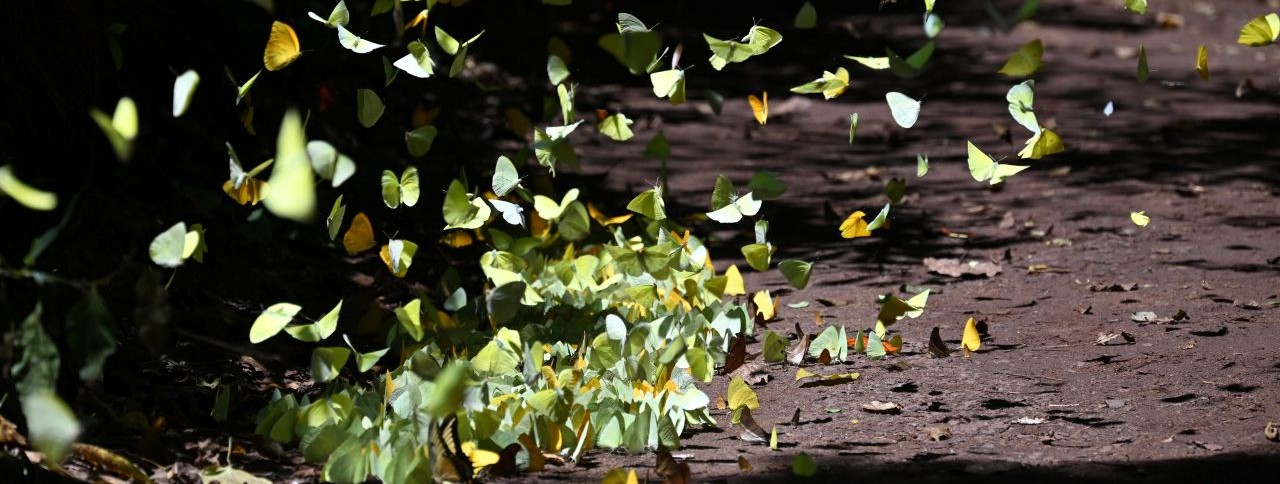
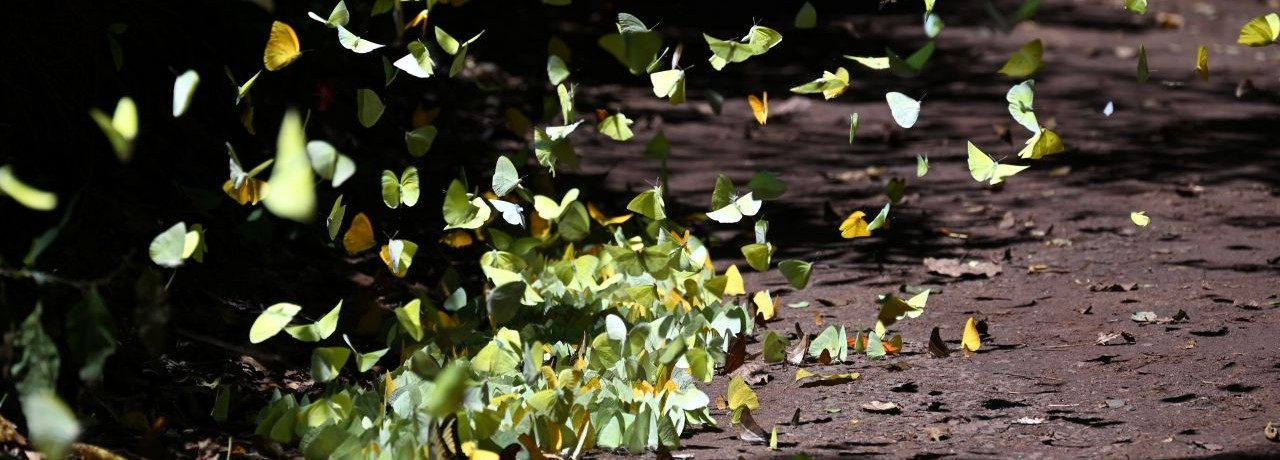
added pictures headers

diff --git a/conferences2.md b/conferences2.md
@@ -11,16 +11,16 @@ header:
 I am currently organising the ANTLR seminar for the University of East Anglia. More info
 [here](https://researchseminars.org/seminar/UEAPS).
 
-<h3>Upcoming invited talks</h3>
-21/10 [EQual](https://sites.google.com/view/equalseminar/home): TBA  
+#### Upcoming invited talks 
+- 21 Oct. 2026 [EQual](https://sites.google.com/view/equalseminar/home): TBA  
 
-<h3>Upcoming conferences</h3>
-Sep. 2026 [GRIP](https://events.math.unipd.it/grip2026/) GRoup theory In Padova, project on Sylow restriction in the representation theory of symmetric and related groups with Stanley Law
-Nov. 2026 
+#### Upcoming conferences
+- Sept. 2026 [GRIP](https://events.math.unipd.it/grip2026/) (GRoup theory In Padova), project on Sylow restriction in the representation theory of symmetric and related groups with Stanley Law
+- Nov. 2026 Interactions between Representations of Finite and p-adic Groups at Oberwolfach
 
-<h3>Previous invited talks</h3>
+#### Previous invited talks
 
-<h3>Previous conferences</h3>
+#### Previous conferences 
 
 <br><br>
 This page is under construction. Stay tuned!

diff --git a/research.md b/research.md
@@ -1,9 +1,11 @@
 ---
 layout: single
-title: Teaching
-permalink: /teaching/
+title: Research
+permalink: /research/
 author_profile: true
 classes: wide
+header:
+    image: /assets/images/research2.jpg
 ---
 
 This page is under construction. Stay tuned!<br>

diff --git a/teaching.md b/teaching.md
@@ -1,9 +1,11 @@
 ---
 layout: single
-title: Research
-permalink: /research/
+title: Teaching
+permalink: /teaching/
 author_profile: true
 classes: wide
+header:
+    image: /assets/images/teaching2.jpg
 ---
 
 This page is under construction. Stay tuned!<br>

diff --git a/about.md b/about.md
@@ -4,4 +4,6 @@ title: About
 permalink: /
 author_profile: true
 classes: wide
+header:
+    image: /assets/images/about2.jpg
 ---
